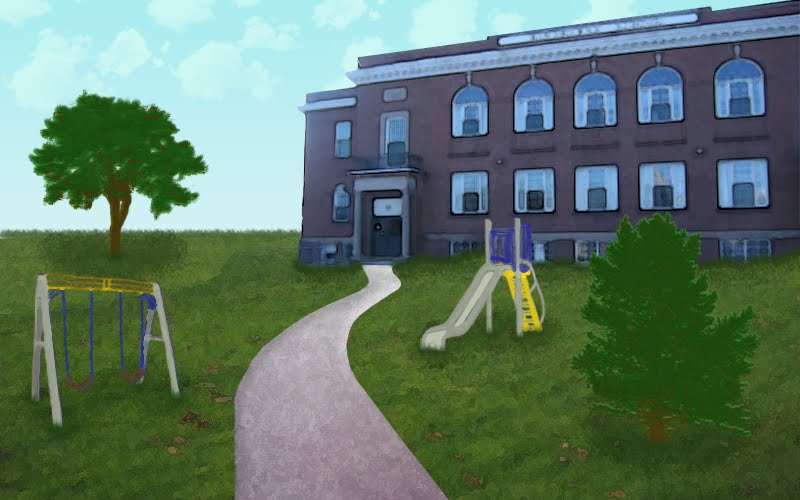
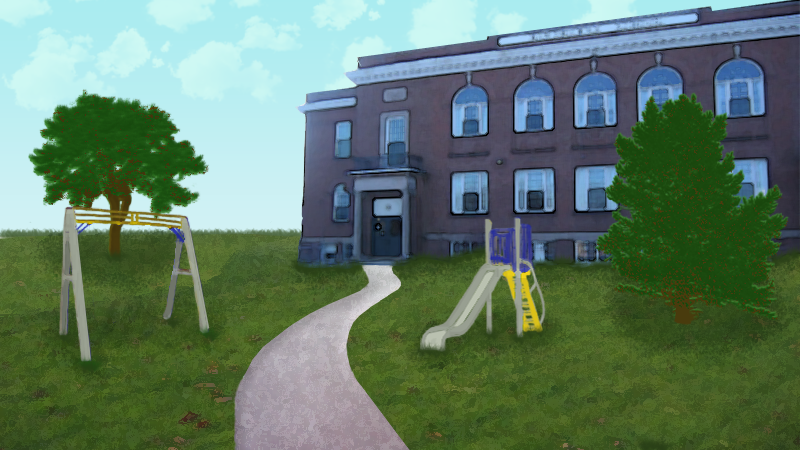
added two hammocks

diff --git a/js/game.js b/js/game.js
@@ -4,10 +4,49 @@
 	Pac.repository	
 		.addResources({
 			'school_hallway':'images/school_hallway.jpg',
-			'school_front':'images/school_front.png'
+			'school_front':'images/school_front.png',
+			'hammock':'images/hammock.png'
 		});
 
 	var school = new Pac.Scene('schoolFront', 'Outside of my school', 'school_front');
+	
+	var leftHammock = new Pac.Obj('left hammock', 'hammock', {
+			x: 90,
+			y: 230,
+			width: 40,
+			height: 100
+	});
+	
+	var rightHammock = new Pac.Obj('right hammock', 'hammock', {
+			x: 135,
+			y: 233,
+			width: 40,
+			height: 100
+	});
+	
+	var hammockFrames = [];
+	for(var i=0; i<160; i+=40){
+		hammockFrames.push({
+			x: i,
+			y: 0,
+			width: 40,
+			height: 100
+		});	
+	}
+	
+	leftHammock.addAnimation('idle', {
+		frames: hammockFrames,
+		framesPerStep: 10,
+		framesPerRound: 10
+	});
+	
+	rightHammock.addAnimation('idle', {
+		frames: hammockFrames,
+		framesPerStep: 15,
+		framesPerRound: 15
+	});
+	
+	school.addObj(leftHammock).addObj(rightHammock);
 	
 	Pac.config({
 		commandBar: {
